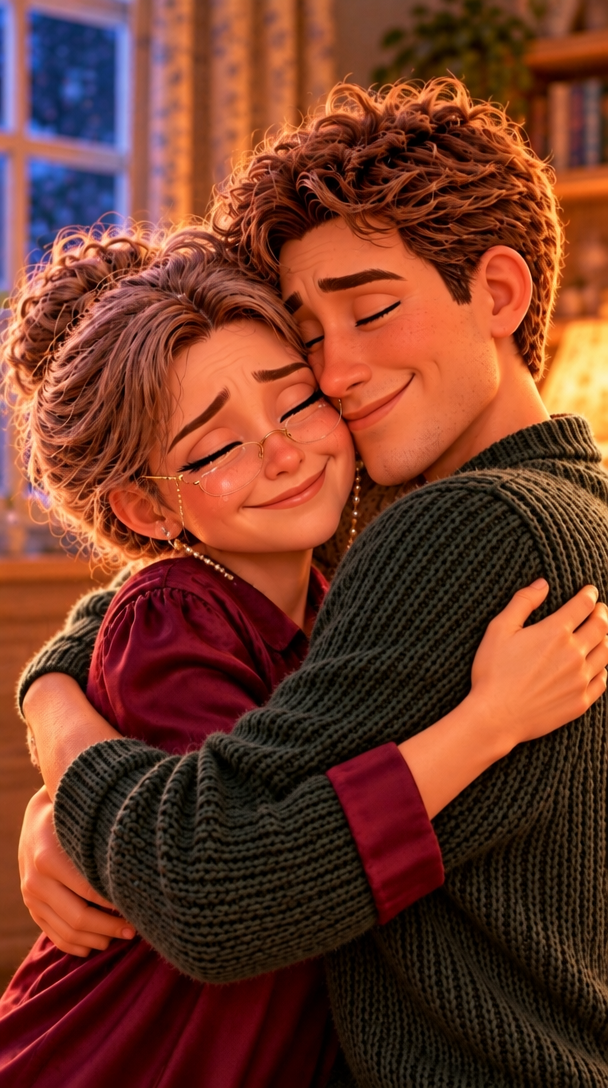
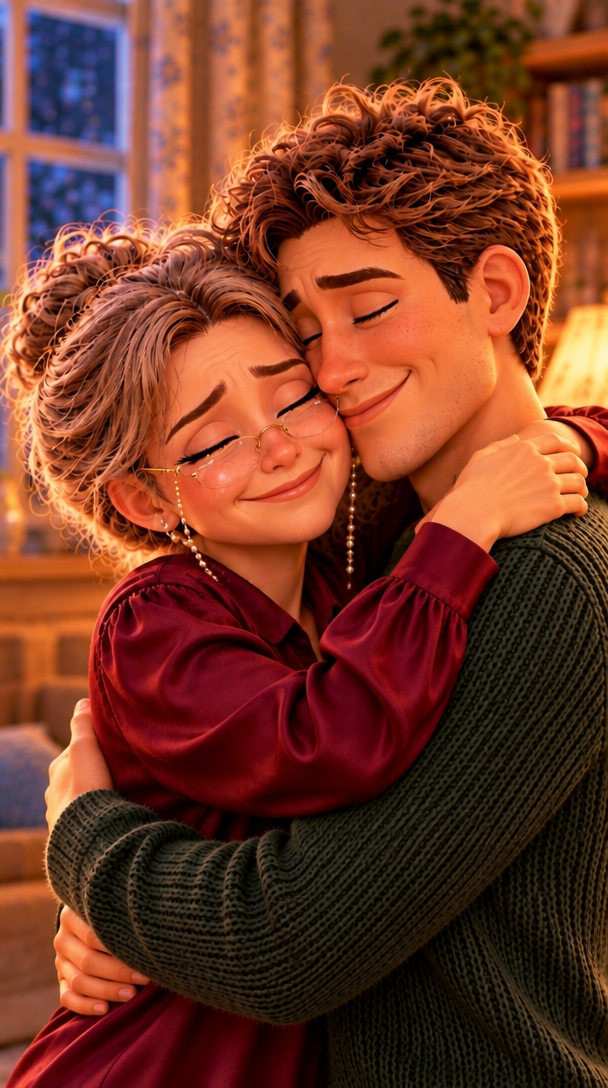
День матери: исправлен кадр объятия (рукава)
Claude-Session: https://claude.ai/code/session_01TXwNN2je3RbbmpXYz6m2NX

diff --git a/den-materi/kadr5.py b/den-materi/kadr5.py
@@ -1,0 +1,13 @@
+import os, urllib.request, fal_client
+os.environ.setdefault("FAL_KEY","proxy-injected")
+p=("Vertical 9:16 close-up frame from the same warm 3D animated film (Pixar-like) as the references. The grown-up son and his older mother from image 1 "
+   "hug cheek to cheek, both faces clearly visible to the camera, eyes closed, she smiles through happy tears, he smiles warmly. "
+   "CLOTHES ARE STRICT: the mother wears ONLY a burgundy silk blouse with long burgundy sleeves; the son wears ONLY a dark forest-green knitted sweater. "
+   "Simple clear pose: the MOTHER's two arms in BURGUNDY sleeves wrap around the son's neck and shoulders, her hands rest on his back; "
+   "the SON's two arms in GREEN sleeves wrap around her waist. Every sleeve colour matches its owner. Exactly two arms each, correct anatomy, five fingers. "
+   "Her face: silver-grey hair in a bun, reading glasses on a chain, same face as image 1 and image 2. Same cozy living room in warm evening light, soft bokeh. No text.")
+refs=["kadry/04.png","kadry/v1/05_zelenyy_rukav.png"]
+r=fal_client.subscribe("openai/gpt-image-2.6/flare/edit",arguments={"prompt":p,"image_urls":[fal_client.upload_file(x) for x in refs],
+   "image_size":"portrait_16_9","quality":"medium","num_images":2,"output_format":"png"})
+for i,im in enumerate(r["images"]): urllib.request.urlretrieve(im["url"],f"kadry/05_var{i}.png")
+print("ok")

diff --git a/den-materi/klipy.py b/den-materi/klipy.py
@@ -10,7 +10,7 @@ D={
 "a_privivka":"The mother hugs her little son on her lap and gently strokes his hair, kisses his forehead, the boy stops being scared and smiles at her, the nurse smiles and finishes putting on the plaster. Slow camera push-in.",
 "b_luzhi":"The mother and her little son jump together into the puddle holding hands, water splashes in slow motion, both laugh joyfully, sunlight sparkles in the drops. Slow tracking camera.",
 "c_risuem":"The boy proudly shows his drawing to his mother, she laughs, gently touches the paint on his nose with her finger, he giggles. Sunlight, cozy kitchen. Slow camera push-in.",
-"05":"The son and the mother hug tightly cheek to cheek, swaying gently, she smiles through happy tears, he hugs her closer. Warm light, soft bokeh. Very slow camera push-in.",
+"05":"The son and the mother hug cheek to cheek, swaying very gently, arms stay in place, her sleeves stay burgundy, his sleeves stay green, she smiles through happy tears, he hugs her closer. Warm light, soft bokeh. Very slow camera push-in.",
 }
 def odin(k):
     out=f"klipy/{k}.mp4"
